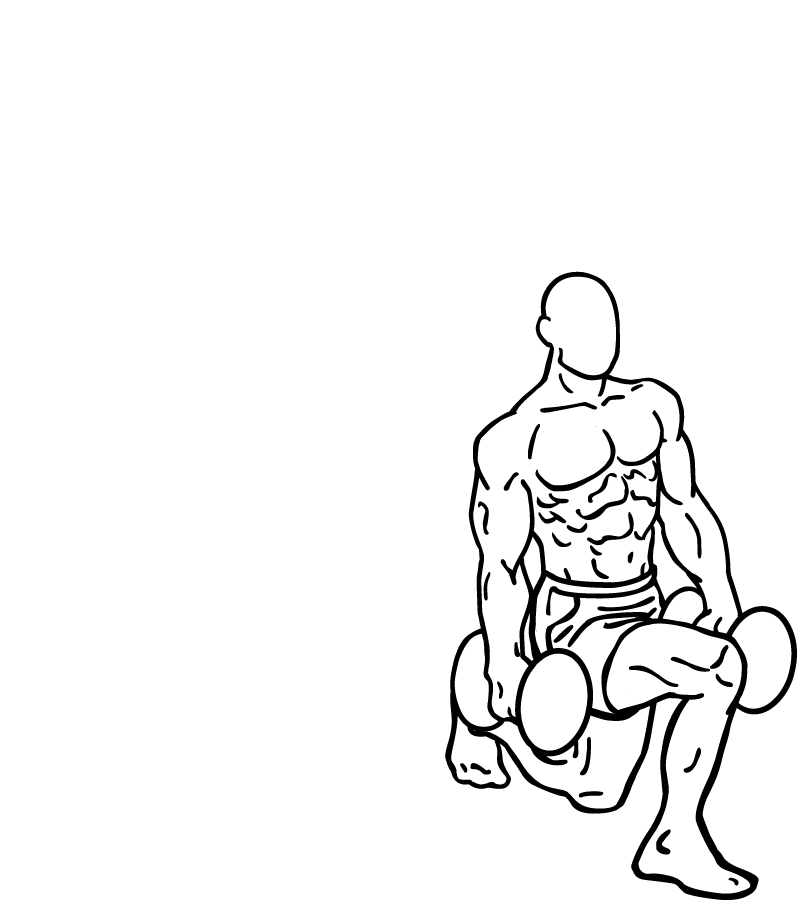
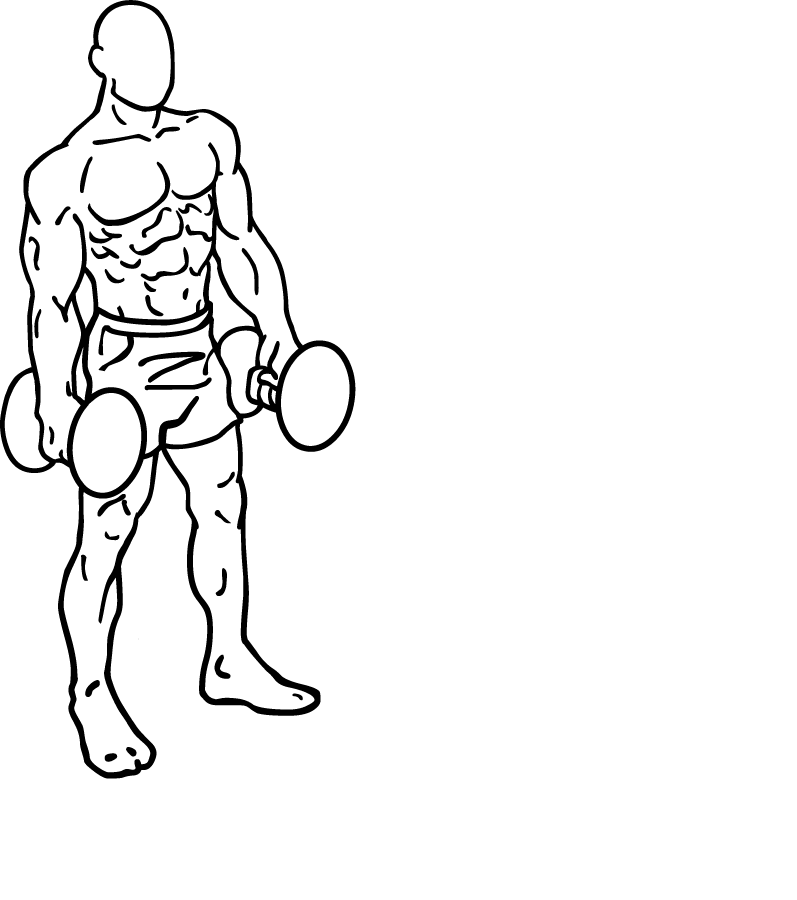
WU-3: replace warm-up stick SVGs with human photos and GIFs
Swap all eight inline stick figures for committed Commons/Unsplash
human stills or GIFs; add per-file credits, GIF still fallbacks, and
reduced-motion src handling. Grouping and JIT pages untouched.

Changed region(s): [[0.0, 0.0, 0.4517, 0.8711], [0.542, 0.3111, 1.0, 1.0], [0.6926, 0.28, 0.7528, 0.3111]]

diff --git a/writes/basic-warmup-guide/index.html b/writes/basic-warmup-guide/index.html
@@ -12,7 +12,7 @@
   <meta charset="UTF-8" />
   <meta name="viewport" content="width=device-width, initial-scale=1.0" />
   <title>Basic running warm-up guide | ShravzDev</title>
-  <meta name="description" content="Five dynamic warm-ups before a run and five static stretches after — with still photos and static illustrations." />
+  <meta name="description" content="Five dynamic warm-ups before a run and five static stretches after — with photos and GIFs of real people doing each move." />
   <link rel="preconnect" href="https://fonts.googleapis.com" />
   <link rel="preconnect" href="https://fonts.gstatic.com" crossorigin />
   <link href="https://fonts.googleapis.com/css2?family=Caveat:wght@600;700&family=Outfit:wght@400;500;600;700;800&display=swap" rel="stylesheet" />
@@ -175,21 +175,14 @@
       background: var(--well);
     }
 
-    .step-illus img,
-    .step-illus svg {
+    .step-illus img {
       width: 100%;
       height: auto;
       min-height: 96px;
       max-height: 200px;
       display: block;
-    }
-
-    .step-illus img {
       object-fit: cover;
     }
-
-    .stick { stroke: #12141a; stroke-width: 3; stroke-linecap: round; fill: none; }
-    .joint { fill: #12141a; }
 
     .step-num {
       font-size: 0.72rem;
@@ -287,15 +280,7 @@
 
       <article class="step-card" data-n="2">
         <div class="step-illus">
-          <svg viewBox="0 0 120 120" role="img" aria-label="Arm circles">
-            <line class="stick" x1="60" y1="38" x2="60" y2="78"/>
-            <circle class="joint" cx="60" cy="28" r="8"/>
-            <line class="stick" x1="60" y1="78" x2="48" y2="108"/>
-            <line class="stick" x1="60" y1="78" x2="72" y2="108"/>
-            <line class="stick" x1="60" y1="42" x2="28" y2="52"/>
-            <line class="stick" x1="60" y1="42" x2="92" y2="52"/>
-            <path d="M 28 52 A 32 32 0 0 1 92 52" fill="none" stroke="#4285F4" stroke-width="2" stroke-dasharray="4 3" opacity="0.7"/>
-          </svg>
+          <img src="img/arm-circles.jpg" alt="Arm circles" width="200" height="200" loading="lazy" decoding="async" />
         </div>
         <div class="step-copy">
           <div class="step-num">2</div>
@@ -306,13 +291,7 @@
 
       <article class="step-card" data-n="3">
         <div class="step-illus">
-          <svg viewBox="0 0 120 120" role="img" aria-label="Leg swings">
-            <rect x="8" y="20" width="8" height="88" rx="2" fill="#e8eaee"/>
-            <line class="stick" x1="60" y1="38" x2="60" y2="78"/>
-            <circle class="joint" cx="60" cy="28" r="8"/>
-            <line class="stick" x1="60" y1="78" x2="72" y2="108"/>
-            <line class="stick" x1="60" y1="78" x2="88" y2="95"/>
-          </svg>
+          <img src="img/leg-swings.png" alt="Leg swings" width="200" height="200" loading="lazy" decoding="async" />
         </div>
         <div class="step-copy">
           <div class="step-num">3</div>
@@ -323,12 +302,7 @@
 
       <article class="step-card" data-n="4">
         <div class="step-illus">
-          <svg viewBox="0 0 120 120" role="img" aria-label="High knees">
-            <line class="stick" x1="60" y1="38" x2="60" y2="72"/>
-            <circle class="joint" cx="60" cy="28" r="8"/>
-            <line class="stick" x1="60" y1="72" x2="72" y2="108"/>
-            <line class="stick" x1="60" y1="72" x2="44" y2="88"/>
-          </svg>
+          <img class="warmup-motion" src="img/high-knees-still.jpg" data-motion-src="img/high-knees.gif" alt="High knees" width="200" height="200" loading="lazy" decoding="async" />
         </div>
         <div class="step-copy">
           <div class="step-num">4</div>
@@ -353,14 +327,7 @@
     <div class="steps" aria-label="After you run">
       <article class="step-card" data-n="1">
         <div class="step-illus">
-          <svg viewBox="0 0 120 120" role="img" aria-label="Standing quad stretch">
-            <line class="stick" x1="60" y1="38" x2="60" y2="78"/>
-            <circle class="joint" cx="60" cy="28" r="8"/>
-            <line class="stick" x1="60" y1="78" x2="72" y2="108"/>
-            <line class="stick" x1="60" y1="78" x2="48" y2="92"/>
-            <line class="stick" x1="48" y1="92" x2="52" y2="72"/>
-            <line class="stick" x1="60" y1="42" x2="72" y2="58"/>
-          </svg>
+          <img class="warmup-motion" src="img/standing-quad-stretch-still.jpg" data-motion-src="img/standing-quad-stretch.gif" alt="Standing quad stretch" width="200" height="200" loading="lazy" decoding="async" />
         </div>
         <div class="step-copy">
           <div class="step-num">1</div>
@@ -371,16 +338,7 @@
 
       <article class="step-card" data-n="2">
         <div class="step-illus">
-          <svg viewBox="0 0 120 120" role="img" aria-label="Standing hamstring stretch">
-            <g transform="rotate(28 60 38)">
-              <line class="stick" x1="60" y1="48" x2="60" y2="78"/>
-              <circle class="joint" cx="60" cy="38" r="8"/>
-              <line class="stick" x1="60" y1="48" x2="48" y2="58"/>
-              <line class="stick" x1="60" y1="48" x2="72" y2="58"/>
-            </g>
-            <line class="stick" x1="60" y1="78" x2="52" y2="108"/>
-            <line class="stick" x1="60" y1="78" x2="68" y2="108"/>
-          </svg>
+          <img class="warmup-motion" src="img/standing-hamstring-stretch-still.jpg" data-motion-src="img/standing-hamstring-stretch.gif" alt="Standing hamstring stretch" width="200" height="200" loading="lazy" decoding="async" />
         </div>
         <div class="step-copy">
           <div class="step-num">2</div>
@@ -391,16 +349,7 @@
 
       <article class="step-card" data-n="3">
         <div class="step-illus">
-          <svg viewBox="0 0 120 120" role="img" aria-label="Calf stretch at wall">
-            <rect x="6" y="24" width="10" height="84" rx="2" fill="#4285F4" opacity="0.25"/>
-            <g transform="rotate(12 30 80)">
-              <line class="stick" x1="52" y1="42" x2="38" y2="78"/>
-              <circle class="joint" cx="52" cy="34" r="8"/>
-              <line class="stick" x1="38" y1="78" x2="32" y2="108"/>
-              <line class="stick" x1="38" y1="78" x2="58" y2="108"/>
-              <line class="stick" x1="52" y1="46" x2="28" y2="52"/>
-            </g>
-          </svg>
+          <img src="img/calf-stretch.jpg" alt="Calf stretch" width="200" height="200" loading="lazy" decoding="async" />
         </div>
         <div class="step-copy">
           <div class="step-num">3</div>
@@ -411,13 +360,7 @@
 
       <article class="step-card" data-n="4">
         <div class="step-illus">
-          <svg viewBox="0 0 120 120" role="img" aria-label="Hip-flexor lunge stretch">
-            <line class="stick" x1="68" y1="36" x2="58" y2="68"/>
-            <circle class="joint" cx="68" cy="28" r="8"/>
-            <line class="stick" x1="58" y1="68" x2="42" y2="98"/>
-            <line class="stick" x1="58" y1="68" x2="88" y2="108"/>
-            <circle class="joint" cx="88" cy="108" r="5" fill="#EA4335"/>
-          </svg>
+          <img src="img/hip-flexor-lunge-stretch.jpg" alt="Hip-flexor lunge stretch" width="200" height="200" loading="lazy" decoding="async" />
         </div>
         <div class="step-copy">
           <div class="step-num">4</div>
@@ -428,16 +371,7 @@
 
       <article class="step-card" data-n="5">
         <div class="step-illus">
-          <svg viewBox="0 0 120 120" role="img" aria-label="Figure-four stretch">
-            <g transform="translate(0 6)">
-              <line class="stick" x1="60" y1="48" x2="60" y2="72"/>
-              <circle class="joint" cx="60" cy="40" r="8"/>
-              <line class="stick" x1="60" y1="72" x2="48" y2="98"/>
-              <line class="stick" x1="60" y1="72" x2="78" y2="98"/>
-              <line class="stick" x1="60" y1="52" x2="78" y2="68"/>
-              <line class="stick" x1="78" y1="68" x2="88" y2="78"/>
-            </g>
-          </svg>
+          <img src="img/figure-four-stretch.jpg" alt="Figure-four stretch" width="200" height="200" loading="lazy" decoding="async" />
         </div>
         <div class="step-copy">
           <div class="step-num">5</div>
@@ -452,20 +386,49 @@
     </p>
 
     <div class="credits">
-      <p><strong>Photo credits</strong> (committed rasters only):</p>
+      <p><strong>Image credits</strong> (author, license, source file):</p>
       <ul>
         <li>
-          Jumping jacks — Lance Cpl. Ryan M. Joyner, U.S. Marine Corps;
-          Public domain;
+          Jumping jacks — Lance Cpl. Ryan M. Joyner, U.S. Marine Corps; Public domain;
           <a href="https://commons.wikimedia.org/wiki/File:Elementary_school_students_conduct_jumping_jacks_to_warm_up_USMC-120214-M-MA421-288.jpg" target="_blank" rel="noopener noreferrer">File:Elementary school students conduct jumping jacks…288.jpg</a>
         </li>
         <li>
-          Walking lunges — Everkinetic;
-          CC BY-SA 3.0;
-          <a href="https://commons.wikimedia.org/wiki/File:Walking-lunges-4.png" target="_blank" rel="noopener noreferrer">File:Walking-lunges-4.png</a>
+          Arm circles — M.C. Morgan; CC BY 2.0;
+          <a href="https://commons.wikimedia.org/wiki/File:Pendulum_exercise_(passive_exercise).jpg" target="_blank" rel="noopener noreferrer">File:Pendulum exercise (passive exercise).jpg</a>
+        </li>
+        <li>
+          Leg swings — BruceBlaus; CC BY-SA 4.0;
+          <a href="https://commons.wikimedia.org/wiki/File:Exercise_Pendulum_Swings.png" target="_blank" rel="noopener noreferrer">File:Exercise Pendulum Swings.png</a>
+        </li>
+        <li>
+          High knees — Wensceslao; CC BY-SA 4.0;
+          <a href="https://commons.wikimedia.org/wiki/File:High_knees.gif" target="_blank" rel="noopener noreferrer">File:High knees.gif</a>
+        </li>
+        <li>
+          Walking lunges — Everkinetic; CC BY-SA 3.0;
+          <a href="https://commons.wikimedia.org/wiki/File:Walking-lunges-1.png" target="_blank" rel="noopener noreferrer">File:Walking-lunges-1.png</a>
+        </li>
+        <li>
+          Standing quad stretch — Centers for Disease Control and Prevention; Public domain;
+          <a href="https://commons.wikimedia.org/wiki/File:Quad_stretch-CDC_strength_training_for_older_adults.gif" target="_blank" rel="noopener noreferrer">File:Quad stretch-CDC strength training for older adults.gif</a>
+        </li>
+        <li>
+          Standing hamstring stretch — Centers for Disease Control and Prevention; Public domain;
+          <a href="https://commons.wikimedia.org/wiki/File:Hamstring_stretch-CDC_strength_training_for_older_adults.gif" target="_blank" rel="noopener noreferrer">File:Hamstring stretch-CDC strength training for older adults.gif</a>
+        </li>
+        <li>
+          Calf stretch — Chad Riley (chad050); CC BY-SA 2.0;
+          <a href="https://commons.wikimedia.org/wiki/File:Drew_Bledsoe_stretching.jpg" target="_blank" rel="noopener noreferrer">File:Drew Bledsoe stretching.jpg</a>
+        </li>
+        <li>
+          Hip-flexor lunge stretch — BameSanah88; CC BY-SA 4.0;
+          <a href="https://commons.wikimedia.org/wiki/File:Low_Lunge.jpg" target="_blank" rel="noopener noreferrer">File:Low Lunge.jpg</a>
+        </li>
+        <li>
+          Figure-four stretch — Alexandr Osadcii; CC BY 2.0;
+          <a href="https://commons.wikimedia.org/wiki/File:Woman_stretching.JPG" target="_blank" rel="noopener noreferrer">File:Woman stretching.JPG</a>
         </li>
       </ul>
-      <p>Eight other moves use static inline SVG illustrations on this page (no animation).</p>
     </div>
   </div>
 
@@ -475,5 +438,16 @@
     <span class="y"></span>
     <span class="g"></span>
   </div>
+
+  <script>
+    (function () {
+      if (window.matchMedia('(prefers-reduced-motion: reduce)').matches) {
+        return;
+      }
+      document.querySelectorAll('img.warmup-motion[data-motion-src]').forEach(function (img) {
+        img.src = img.getAttribute('data-motion-src');
+      });
+    })();
+  </script>
 </body>
 </html>
